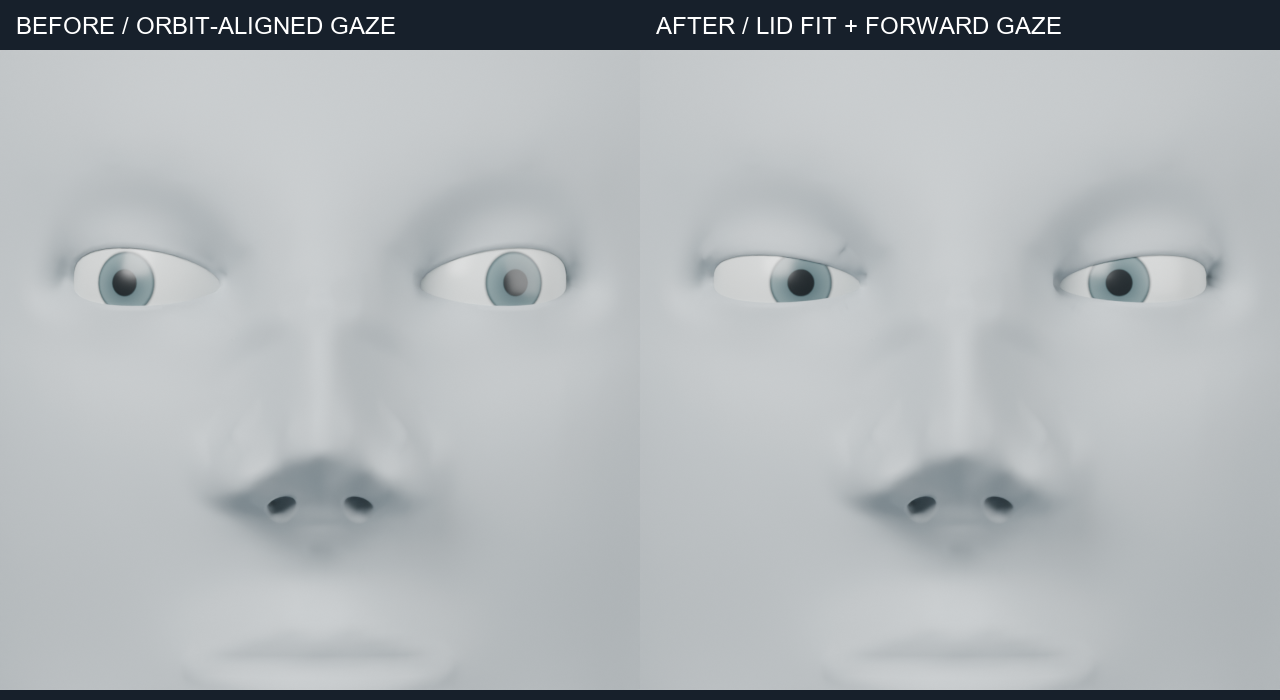
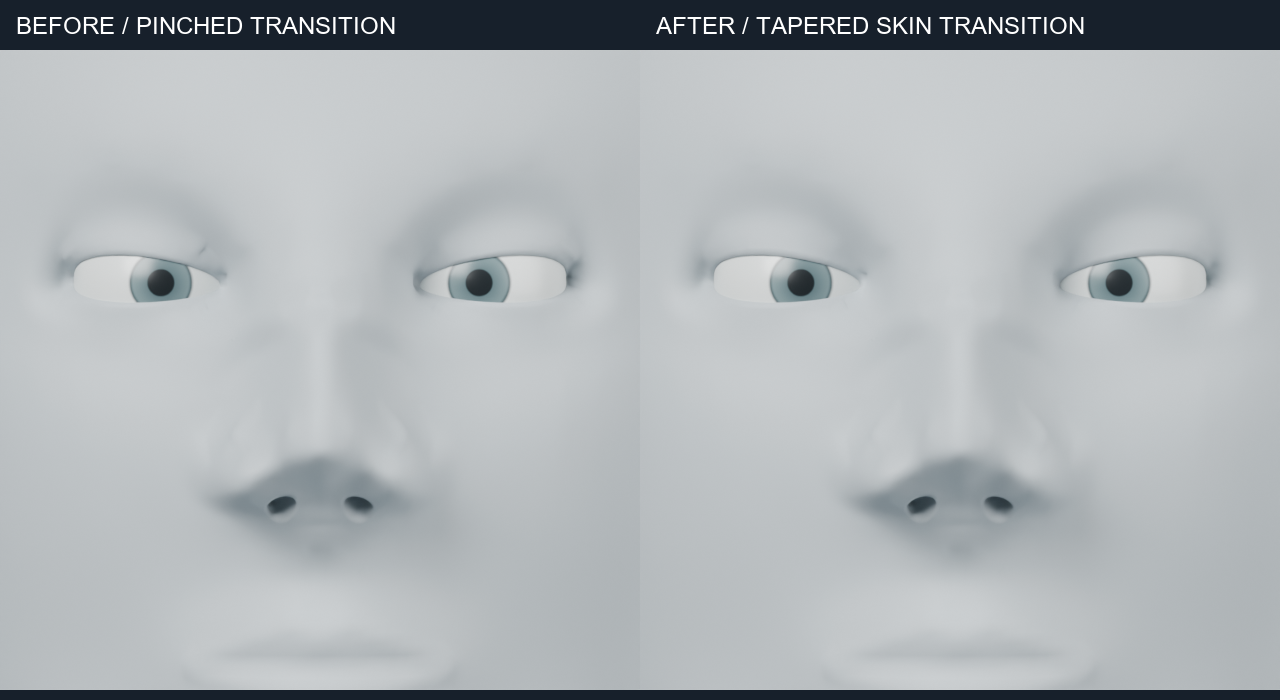
Taper eyelid deformation through the skin collar with sliver guards

diff --git a/src/mesh_workbench/anatomy/eyelid_fit.py b/src/mesh_workbench/anatomy/eyelid_fit.py
@@ -18,6 +18,17 @@ def fit(source,eyes,name='Fitted eyelids'):
     if name in bpy.data.objects: raise ValueError('Output already exists')
     if not 1<=len(eyes)<=2: raise ValueError('Expected one or two registered eyes')
     p=sculpt.coordinates(source); q=p.copy(); touched=np.zeros(len(p),bool); reports=[]
+    source.data.calc_loop_triangles()
+    source_tri=np.asarray([t.vertices[:] for t in source.data.loop_triangles])
+    e1=p[source_tri[:,1]]-p[source_tri[:,0]];e2=p[source_tri[:,2]]-p[source_tri[:,0]]
+    longest=np.maximum.reduce([np.sum(e1*e1,axis=1),np.sum(e2*e2,axis=1),np.sum((e1-e2)**2,axis=1)])
+    # Pin slivers with altitude below 1% of their longest edge. This limits
+    # smoothing support; the polygon rejection threshold below is unchanged.
+    thin=np.linalg.norm(np.cross(e1,e2),axis=1)<longest*.01
+    collar_guard=np.zeros(len(p),bool);collar_guard[source_tri[thin].ravel()]=True
+    neighbors=[[] for _ in p]
+    for edge in source.data.edges:
+        a,b=edge.vertices;neighbors[a].append(b);neighbors[b].append(a)
     for eye in eyes:
         center=np.asarray(eye['center'],float)
         if center.shape!=(3,) or not np.isfinite(center).all(): raise ValueError('Invalid globe center')
@@ -44,9 +55,6 @@ def fit(source,eyes,name='Fitted eyelids'):
         spherical=np.clip((radius-np.sqrt(a*a+b*b))/.0005,0,1)
         w*=spherical*spherical*(3-2*spherical)
         w*= (r>.92)&(clearance>-.001)&(clearance<.006)
-        active=w>0
-        if np.any(active&touched): raise ValueError('Registered eye influence overlaps')
-        touched|=active
         new_b=b+(b*np.where(b>=0,target_u/upper,target_l/lower)-b)*w
         new_support=np.sqrt(np.maximum(0,radius**2-a*a-new_b*new_b))
         # Outer and inner return margins approach the support without placing
@@ -55,12 +63,26 @@ def fit(source,eyes,name='Fitted eyelids'):
         target_gap=np.where(clearance<0,.00005,gap)
         new_d=d+(new_support-support)*w+(target_gap-clearance)*margin*w
         delta=(new_b-b)[:,None]*up+(new_d-d)[:,None]*n
+        # Diffuse displacement, not source geometry. Keep the registered rim
+        # and return fixed while tapering the edit through the skin collar.
+        collar=(r>1.03)&(w>0)&(d>0)&~collar_guard
+        free=np.flatnonzero(collar)
+        initial=delta.copy()
+        for _ in range(12):
+            updates=np.asarray([delta[neighbors[i]].mean(axis=0) for i in free])
+            delta[free]=delta[free]*.55+updates*.45
+        active=np.linalg.norm(delta,axis=1)>1e-12
+        if np.any(active&touched): raise ValueError('Registered eye influence overlaps')
+        touched|=active
         q+=delta
         if np.linalg.norm(delta,axis=1).max()>.003: raise ValueError('Lid fit exceeds 3 mm cap')
         reports.append({'rim_indices':np.flatnonzero(rim).tolist(),'center':center.tolist(),
                         'radius_mm':radius*1000,'target_upper_mm':target_u*1000,
                         'target_lower_mm':target_l*1000,'frame_normal':n.tolist(),
-                        'model_clearance_mm':gap*1000,'changed_vertices':int(active.sum())})
+                        'model_clearance_mm':gap*1000,'changed_vertices':int(active.sum()),
+                        'collar_vertices':len(free),
+                        'thin_face_guard_vertices':int(np.count_nonzero(collar_guard&(w>0))),
+                        'maximum_collar_delta_adjustment_mm':float(np.linalg.norm(delta-initial,axis=1).max()*1000)})
     source.data.calc_loop_triangles()
     tri=np.asarray([t.vertices[:] for t in source.data.loop_triangles])
     ids=np.asarray([t.polygon_index for t in source.data.loop_triangles])
@@ -73,7 +95,8 @@ def fit(source,eyes,name='Fitted eyelids'):
     failed=affected&((np.einsum('ij,ij->i',old,new)<=0)|(np.linalg.norm(new,axis=1)<np.linalg.norm(old,axis=1)*.15))
     if failed.any():
         i=int(np.flatnonzero(failed)[0])
-        raise ValueError(f'Lid fit reverses or collapses polygon {i}; source center {np.mean(p[list(source.data.polygons[i].vertices)],axis=0).tolist()}; area ratio {np.linalg.norm(new[i])/np.linalg.norm(old[i])}')
+        vertices=list(source.data.polygons[i].vertices)
+        raise ValueError(f'Lid fit reverses or collapses polygon {i}; source {p[vertices].tolist()}; old area {np.linalg.norm(old[i])}; guard {collar_guard[vertices].tolist()}; area ratio {np.linalg.norm(new[i])/np.linalg.norm(old[i])}')
     output=source.copy();output.data=source.data.copy();output.name=name
     bpy.context.collection.objects.link(output);mesh=output.data
     try:

diff --git a/examples/human/eyes/board.py b/examples/human/eyes/board.py
@@ -8,12 +8,12 @@ ROOT=next(p for p in Path(__file__).resolve().parents if (p/'pyproject.toml').ex
 
 def run(font_path='DejaVuSans.ttf'):
     out=ROOT/'docs/assets/human/eyes';out.mkdir(exist_ok=True)
-    folder=ROOT/'runs/human/supported-eyelids'
+    folder=ROOT/'runs/human/supported-eyelids-collar'
     font=ImageFont.truetype(font_path,24)
     for filename,panels in [
         ('supported-current.png',[('CURRENT / FRONT',folder/'front.png'),('CURRENT / OBLIQUE',folder/'oblique.png')]),
-        ('supported-comparison.png',[('BEFORE / ORBIT-ALIGNED GAZE',ROOT/'runs/human/tip-ala-refined/front.png'),
-                                     ('AFTER / LID FIT + FORWARD GAZE',folder/'front.png')])]:
+        ('supported-comparison.png',[('BEFORE / PINCHED TRANSITION',ROOT/'runs/human/supported-eyelids/front.png'),
+                                     ('AFTER / TAPERED SKIN TRANSITION',folder/'front.png')])]:
         board=Image.new('RGB',(1280,700),'#17202b');d=ImageDraw.Draw(board)
         for i,(label,path) in enumerate(panels):
             board.paste(Image.open(path).convert('RGB'),(640*i,50))

diff --git a/docs/reference/anatomy/EYELID_SUPPORT.md b/docs/reference/anatomy/EYELID_SUPPORT.md
@@ -1,4 +1,4 @@
-# 눈꺼풀–안구 지지와 시선 분리 — 진행 중
+# 눈꺼풀–안구 지지와 시선 분리
 
 ![현재 실제 모델](../../assets/human/eyes/supported-current.png)
 
@@ -33,9 +33,12 @@
 - 저장 모델을 다시 열어 좌표 동일성을 확인했습니다. 지식 자료 API와 출처 키 참조도 확인했습니다.
 - 정면·사선 640px/16샘플 렌더를 검사했습니다. CPU·수치 라이브러리 2스레드, Blender 단일 실행입니다.
 
-정면 시선은 정렬됐지만 안쪽 눈꺼풀 모서리에 접힘이 남아 있습니다. **눈 부위의 시각적 완료 기준은 아직 통과하지 않았습니다.**
-다음 작업은 그 접힘과 눈꺼풀–주변 피부 전환을 보정하는 것입니다. 눈물호수·눈물관·깜박임·각막 광학·실제 조직 두께는 구현하지 않았습니다.
+첫 결과에 남았던 안쪽 모서리 접힘을 줄이기 위해 가장자리와 안쪽 반환면의 변형을 고정하고, 주변 피부의 변형량만 인접 정점 사이에서 완화했습니다.
+기존 가느다란 면의 정점은 완화에서 제외했습니다. 긴 변에 대한 높이 비가 1% 미만인 면을 보호하며, 기존 면 반전·붕괴 거부 기준은 유지합니다.
+왼쪽 418개·오른쪽 423개 정점의 전환을 완화했고, 가느다란 면 관련 정점 43개·35개는 기존 변형을 유지합니다.
+실제 정면·사선에서 뾰족한 접힘이 완화됐고, 가장자리 간격·코 보호·복귀·실패 경로·저장본 검사는 다시 통과했습니다.
+**정적 눈꺼풀 연결·시선 하위 작업의 검토를 마쳤습니다.** 눈물호수·눈물관·깜박임·각막 광학·실제 조직 두께는 구현하지 않았습니다. 얼굴 전체 단계와 전체 goal은 미완료입니다.
 
-현재 native: `runs/human/supported-eyelids/supported-lids.blend`입니다.
+현재 native: `runs/human/supported-eyelids-collar/supported-lids.blend`입니다.
 재현은 `examples/human/eyes/fit_lids.py`, 등록값과 검증 보고서는 native와 같은 폴더에 있습니다.
 입력 `runs/human/tip-ala-refined/tip-ala.blend`는 보존했습니다.

diff --git a/docs/STATUS.md b/docs/STATUS.md
@@ -6,6 +6,24 @@ source imports, example resources and documentation links were updated.
 Layout violations: zero. Import/CLI/wheel checks passed; no new renders.
 [Locations and move maps](WORKSPACE_LAYOUT.md).
 
+## Eyelid skin transition reviewed - 2026-10-24
+
+The goal remains active. The static eyelid-connection/gaze substep now has
+front/oblique review evidence after tapering displacement through its skin collar.
+The source geometry is not smoothed: registered margin/return displacements are
+pinned and only the surrounding displacement field is diffused. Sliver-related
+vertices keep the original fit; polygon reversal/collapse rejection is unchanged.
+Left/right collars contain 418/423 vertices with 43/35 sliver guards.
+
+Blender 5.2.2 LTS: prior margin-clearance range, nose/source/topology preservation,
+rollback, two registration failures, late failure cleanup and saved-coordinate
+readback pass. Two 640px/16-sample renders were inspected and the pinched corner
+transition is improved. One process, two CPU/numerical threads; Blender exited.
+Current native: `runs/human/supported-eyelids-collar/supported-lids.blend`.
+Next: lips/philtrum/chin structural review and lip-boundary/volume work.
+Face stage A and the overall goal are incomplete; tear anatomy and dynamic lids
+are not claimed. [Updated evidence](reference/anatomy/EYELID_SUPPORT.md).
+
 ## Active anatomy-tool goal / eyelid support - 2026-10-24
 
 The user-authorized [goal contract](reference/anatomy/DEVELOPMENT_GOAL.md) is

diff --git a/examples/human/README.md b/examples/human/README.md
@@ -1,9 +1,10 @@
 # Human modeling entry point
 
-Current native: `runs/human/supported-eyelids/supported-lids.blend`.
+Current native: `runs/human/supported-eyelids-collar/supported-lids.blend`.
 Current images: `docs/assets/human/eyes/supported-current.png` and
-`docs/assets/human/eyes/supported-comparison.png`. Medial lid pinching remains;
-the eye stage is not visually complete. The nasal input remains in `runs/human/tip-ala-refined/`.
+`docs/assets/human/eyes/supported-comparison.png`. Static lid connection and skin
+transition are reviewed; facial development continues with lips/philtrum/chin.
+The nasal input remains in `runs/human/tip-ala-refined/`.
 The entrance-stage input remains in `runs/human/nasal-entrances-smooth/`.
 The input control-study native remains in `runs/human/lower-nose-curves/`.
 The earlier brush-stage native is preserved in `runs/human/surface-brushed-nose/`.

diff --git a/README.md b/README.md
@@ -11,8 +11,8 @@ Early **0.1.0** implementation. Built for iterative work by people and coding ag
 Actual Blender renders created with this toolkit.
 
 **Current human model, actually rendered:** spherical-support eyelid fitting,
-forward gaze and the preserved nasal work. Medial lid-corner pinching remains;
-the eye stage has not passed its visual completion gate. Ears and chin are rough.
+forward gaze, a tapered eyelid/skin transition and the preserved nasal work.
+The static lid-connection substep is reviewed; ears, mouth and chin remain rough.
 This is not anatomical validation.
 [Files and folders](docs/WORKSPACE_LAYOUT.md).
 

diff --git a/docs/ANATOMY_KNOWLEDGE.md b/docs/ANATOMY_KNOWLEDGE.md
@@ -13,7 +13,7 @@ Each stores source references separately from authored modeling proportions.
 `eyelid_fit.knowledge()` exposes `eyelid-support-v1` source relationships and
 modeling limits. It is separate from the four normalized-path modules above.
 `eyelid_fit.fit` operates on manually registered static lid margins and a
-spherical globe approximation. [Implementation and open visual gate](reference/anatomy/EYELID_SUPPORT.md).
+spherical globe approximation. [Implementation, reviewed skin transition and remaining limits](reference/anatomy/EYELID_SUPPORT.md).
 
 ## Connected nasal entrance patches
 

diff --git a/docs/WORKSPACE_LAYOUT.md b/docs/WORKSPACE_LAYOUT.md
@@ -6,7 +6,7 @@ is included in the final check.
 
 | Category | Location |
 | --- | --- |
-| Current human native | `runs/human/supported-eyelids/supported-lids.blend` |
+| Current human native | `runs/human/supported-eyelids-collar/supported-lids.blend` |
 | Current human images | `docs/assets/human/eyes/supported-current.png`, `supported-comparison.png` |
 | Human scripts / target JSON | `examples/human/scripts/`, `examples/human/eyes/`, `examples/human/nose/`, `examples/human/recipes/` |
 | Drill examples | `examples/drill/{assembly,realism,surface,base}/` |
